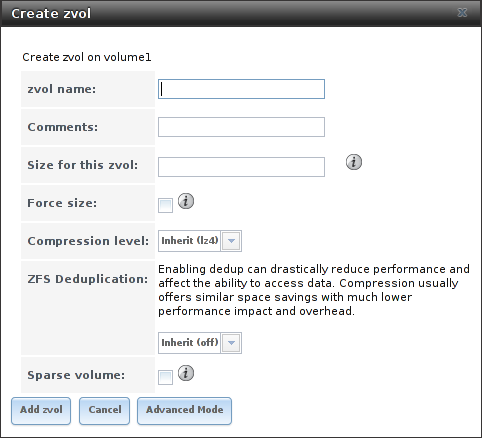
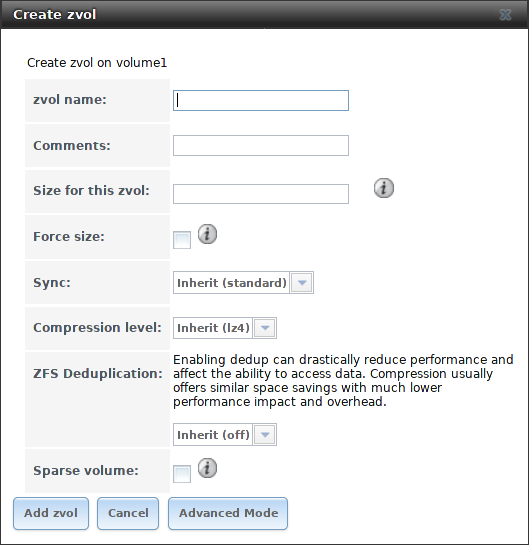
Add ZFS Sync field
Ticket: #27971

diff --git a/userguide/storage.rst b/userguide/storage.rst
@@ -639,6 +639,10 @@ clicking the :guilabel:`Edit Options` button in
    | Comments                 | string              | short comments or user notes about this dataset                                                           |
    |                          |                     |                                                                                                           |
    +--------------------------+---------------------+-----------------------------------------------------------------------------------------------------------+
+   | Sync                     | drop-down menu      | data write synchronization: *Inherit* inherits the sync settings from the parent dataset; *Standard*      |
+   |                          |                     | uses the sync settings that have been requested by the client software; *Always* always waits for         |
+   |                          |                     | data writes to complete; *Disabled* never waits for writes to complete                                    |
+   +--------------------------+---------------------+-----------------------------------------------------------------------------------------------------------+
    | Compression Level        | drop-down menu      | see the section on :ref:`Compression` for a description of the available algorithms                       |
    |                          |                     |                                                                                                           |
    +--------------------------+---------------------+-----------------------------------------------------------------------------------------------------------+
